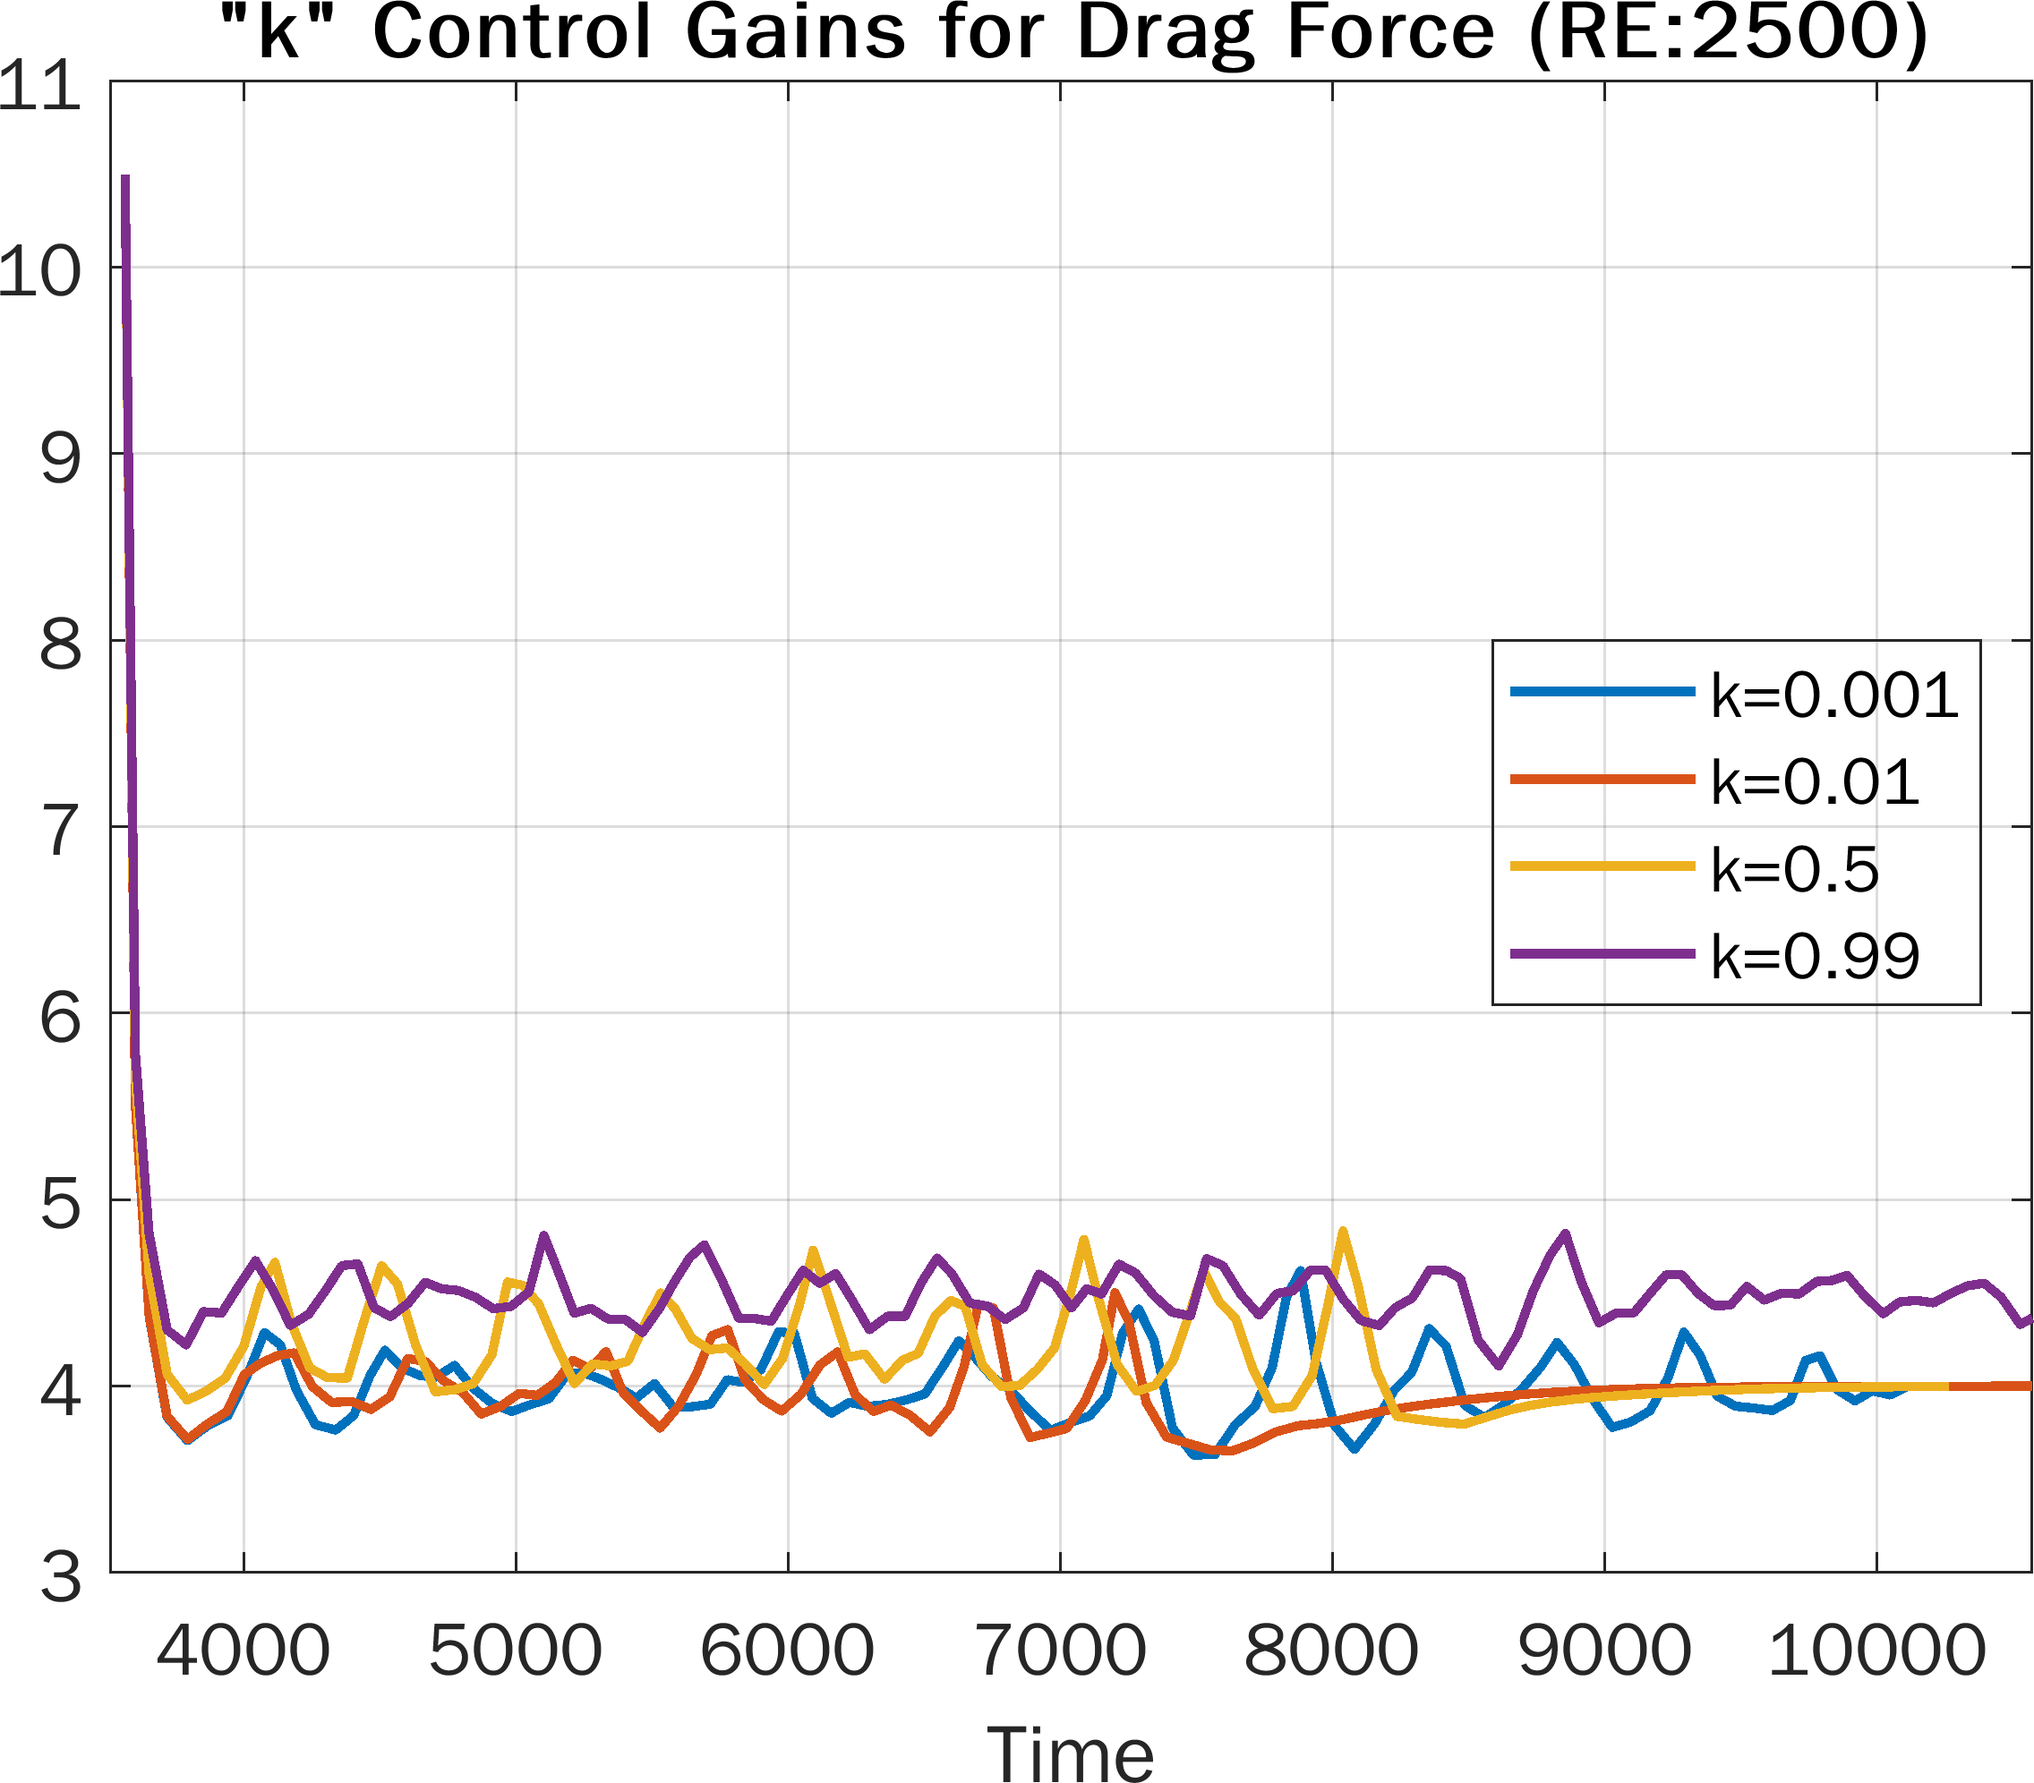
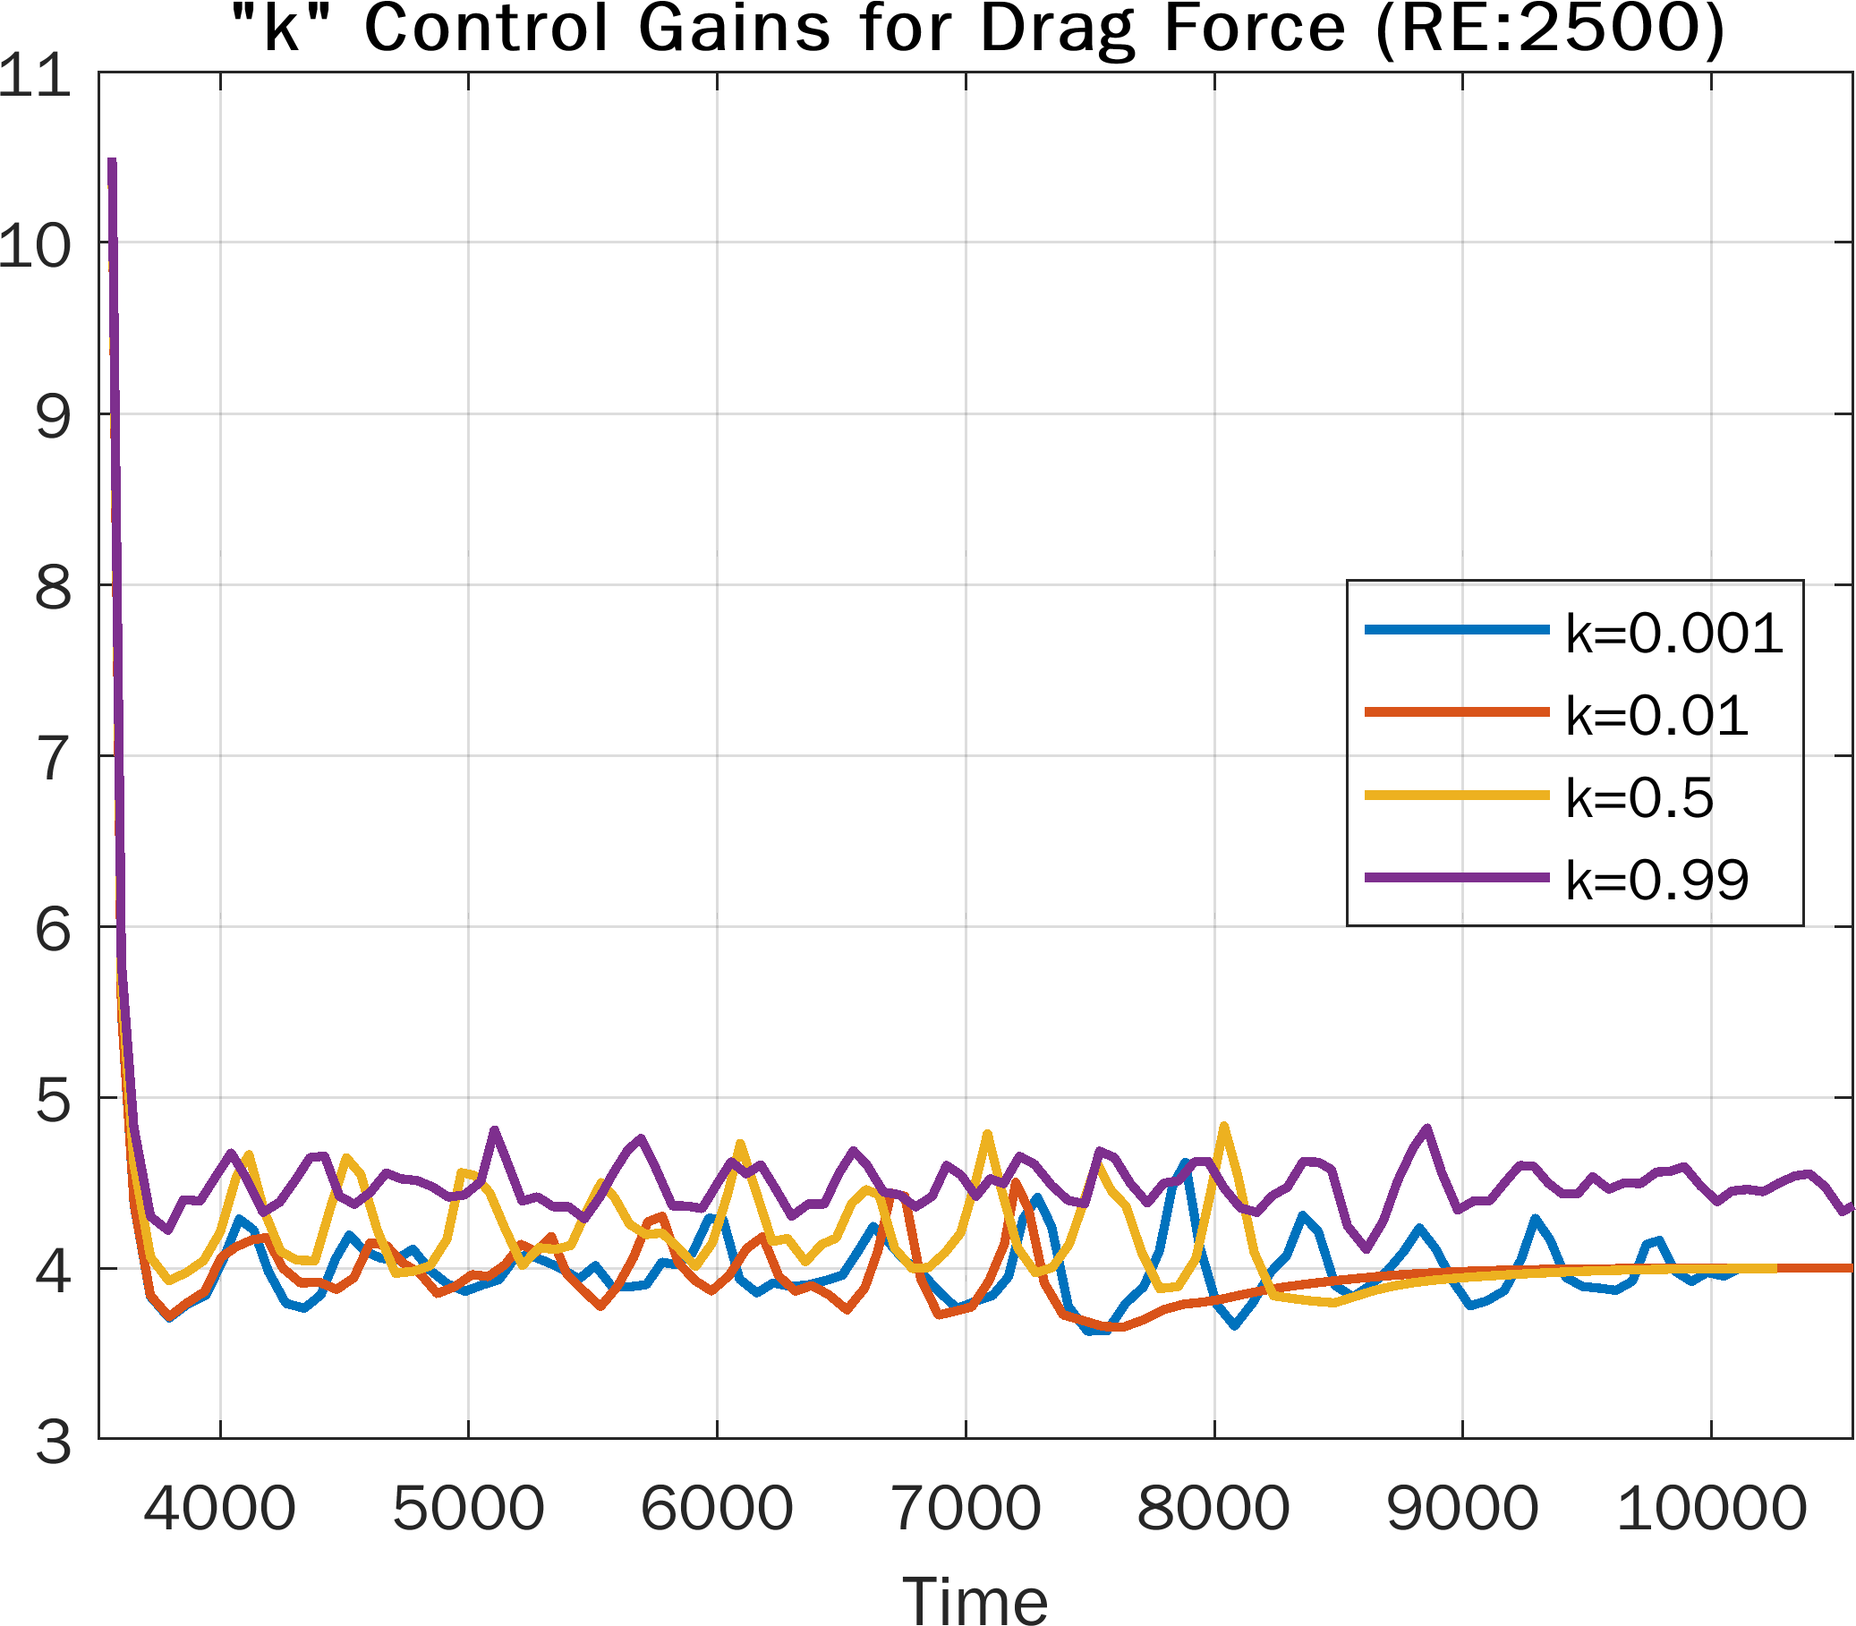
edits

diff --git a/k_L2_2500.m b/k_L2_2500.m
@@ -517,5 +517,5 @@ title('"k" Control Gains for L_2 Norm Perturbation Energy (RE:2500)','FontName',
 legend({'k=0.001','k=0.01','k=0.5','k=0.99'},"Location","southwest");
 set(gcf, 'color', 'none');
 set(legend,'color','none');
-set(gca, 'color', 'none','FontSize',12); 
-export_fig('k_Drag_2500.png', '-png', '-eps', '-transparent','-m5');
+set(gca, 'color', 'none','FontSize',10.5); 
+export_fig('k_L2_2500.png', '-png', '-eps', '-transparent','-m5');

diff --git a/k_Drag2500.m b/k_Drag2500.m
@@ -518,5 +518,5 @@ title('"k" Control Gains for Drag Force (RE:2500)','FontName','Times');
 legend({'k=0.001','k=0.01','k=0.5','k=0.99'},"Location","east");
 set(gcf, 'color', 'none');
 set(legend,'color','none');
-set(gca, 'color', 'none','FontSize',12); 
+set(gca, 'color', 'none','FontSize',10.5); 
 export_fig('k_Drag_2500.png', '-png', '-eps', '-transparent','-m5');
